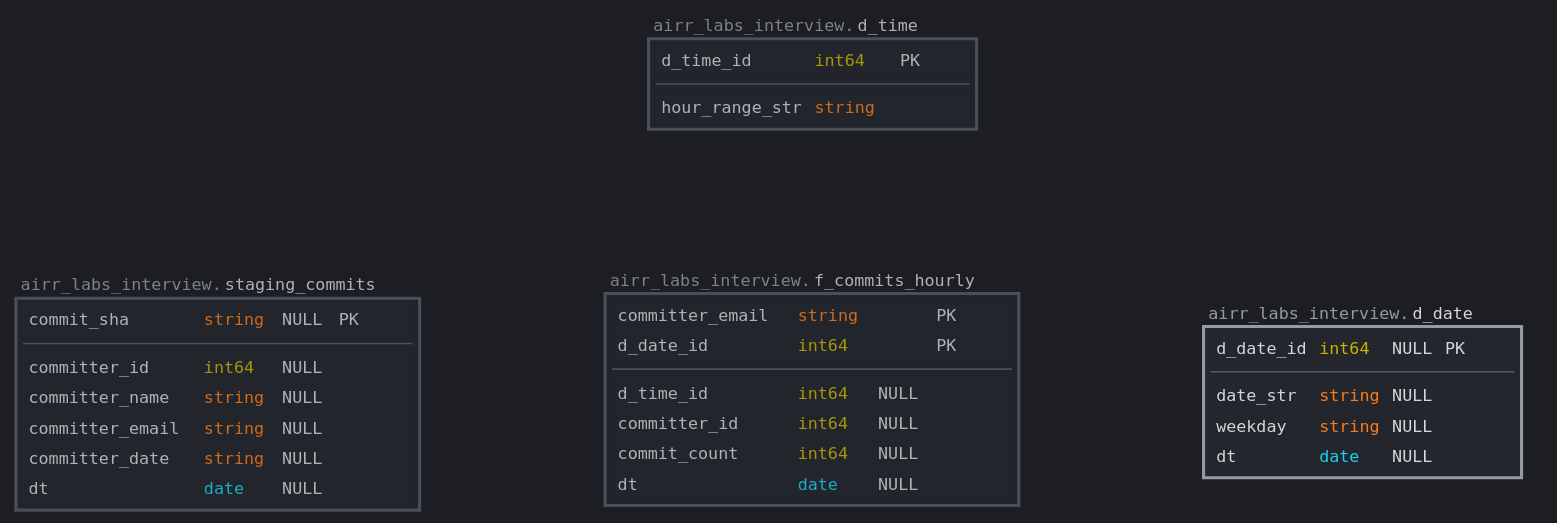
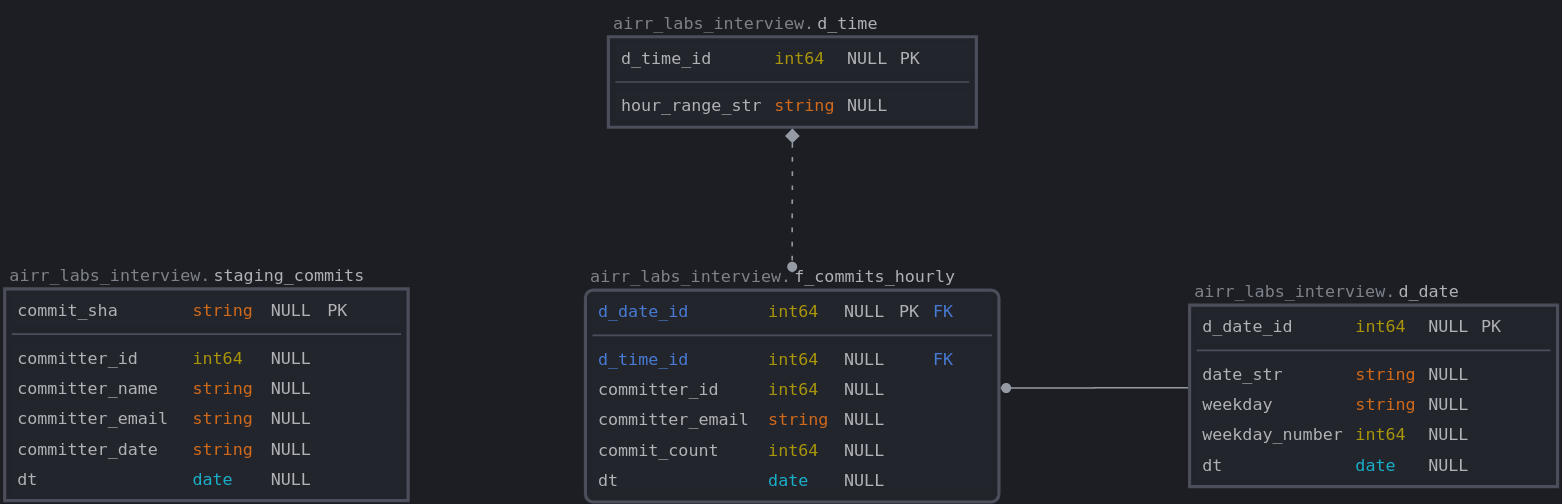
Update README.md and image for data-model.png

diff --git a/README.md b/README.md
@@ -157,8 +157,8 @@ The project implements a star schema design optimized for analyzing GitHub commi
 - Key fields:
   - `commit_sha`: Unique identifier for each commit
   - `committer_id`, `committer_name`, `committer_email`: Committer details
-  - `committer_date`: Timestamp of the commit
-  - `dt`: Partition date
+  - `committer_date`: Raw string timestamp UTC (based on GitHub API response)
+  - `dt`: Partition date (converted to GMT+7 for Vietnamese timezone)
 
 ### 📊 Dimension Tables
 
@@ -185,7 +185,7 @@ The project implements a star schema design optimized for analyzing GitHub commi
 - Uses `committer_email` as a reliable identifier
   > **Why email instead of ID?** GitHub API may return null values for `committer_id` in repository commits. Email addresses provide a more reliable way to track commit activity.
 - Key metrics:
-  - Time dimensions: Links to both date and time for flexible analysis
+  - All date and time related columns are in GMT+7 timezone (for Vietnamese users)
   - `commit_count`: Number of commits in the time period
   - Partitioned by date (dt=YYYY-MM-DD) for optimal query performance
 
